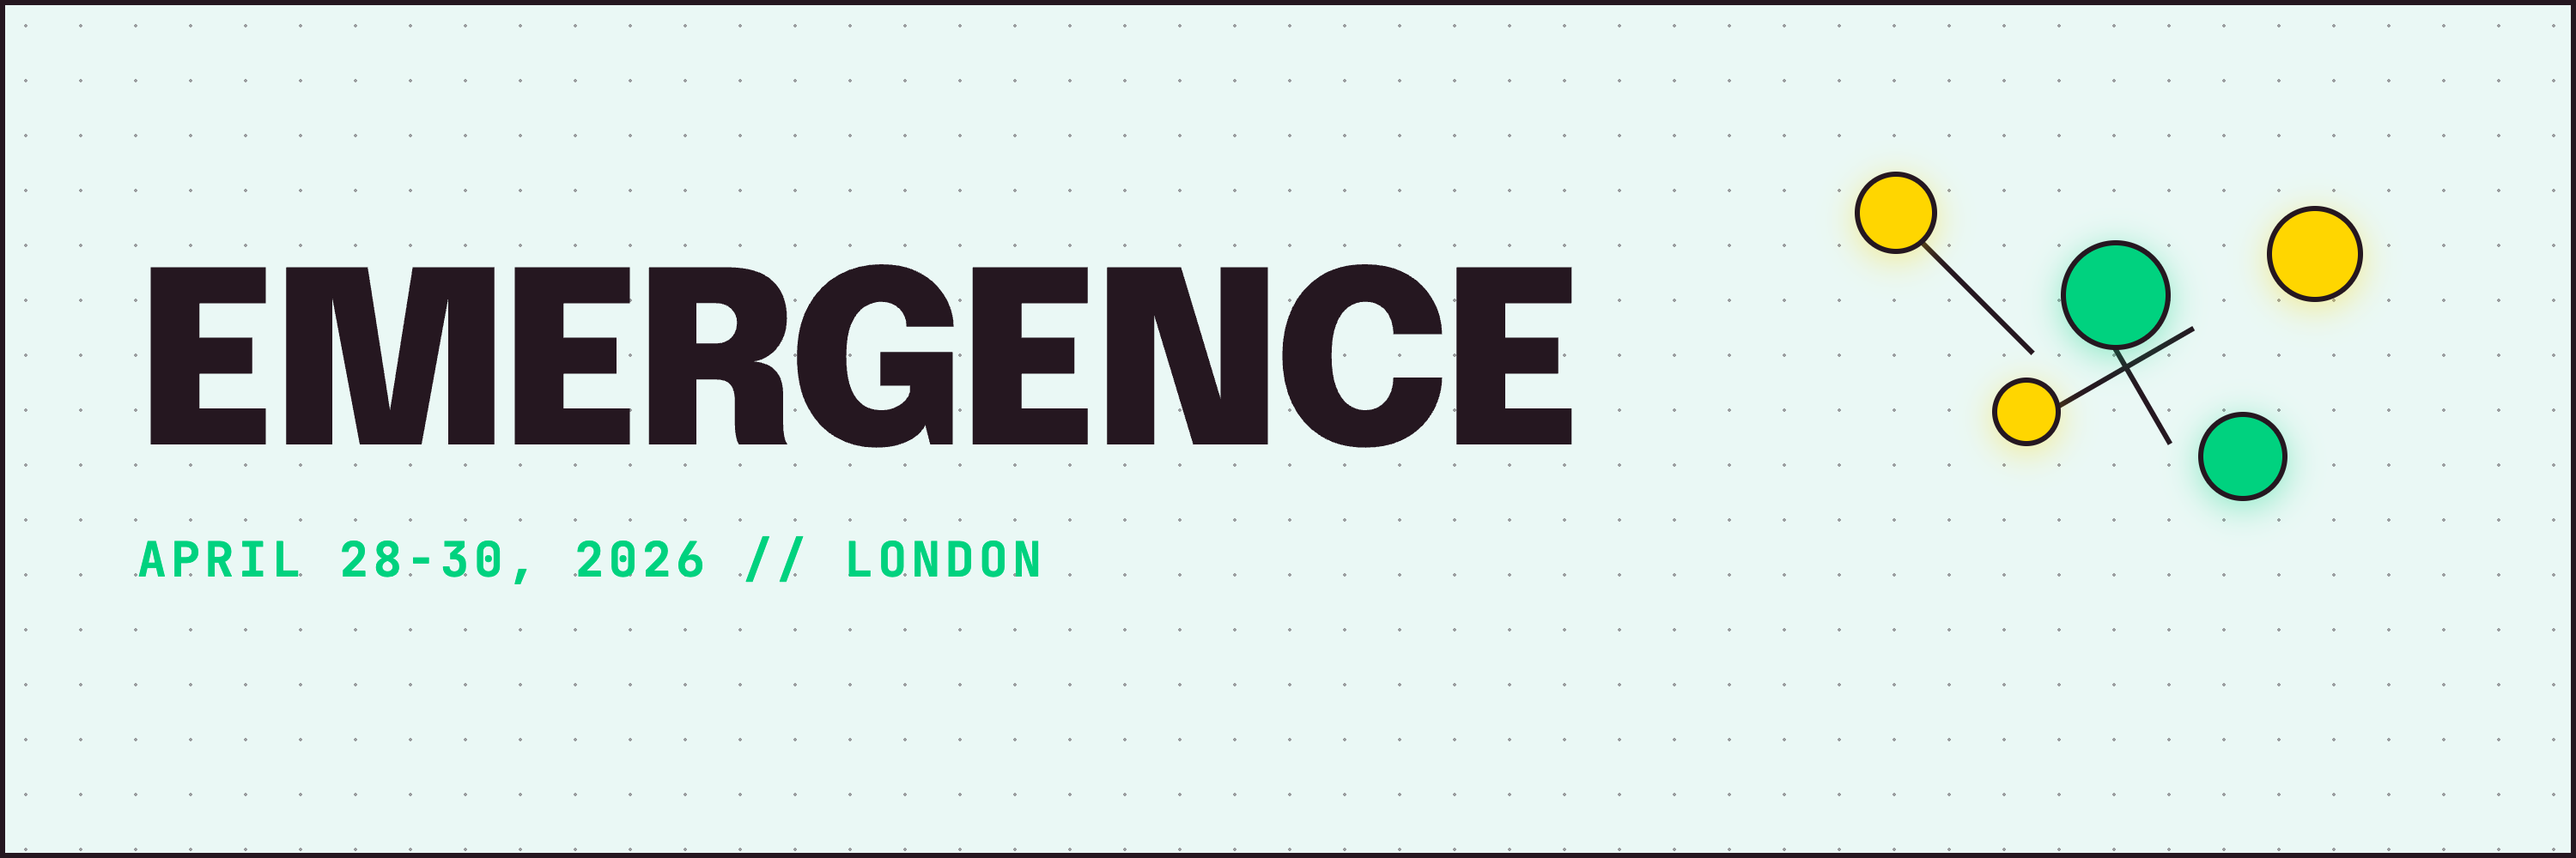
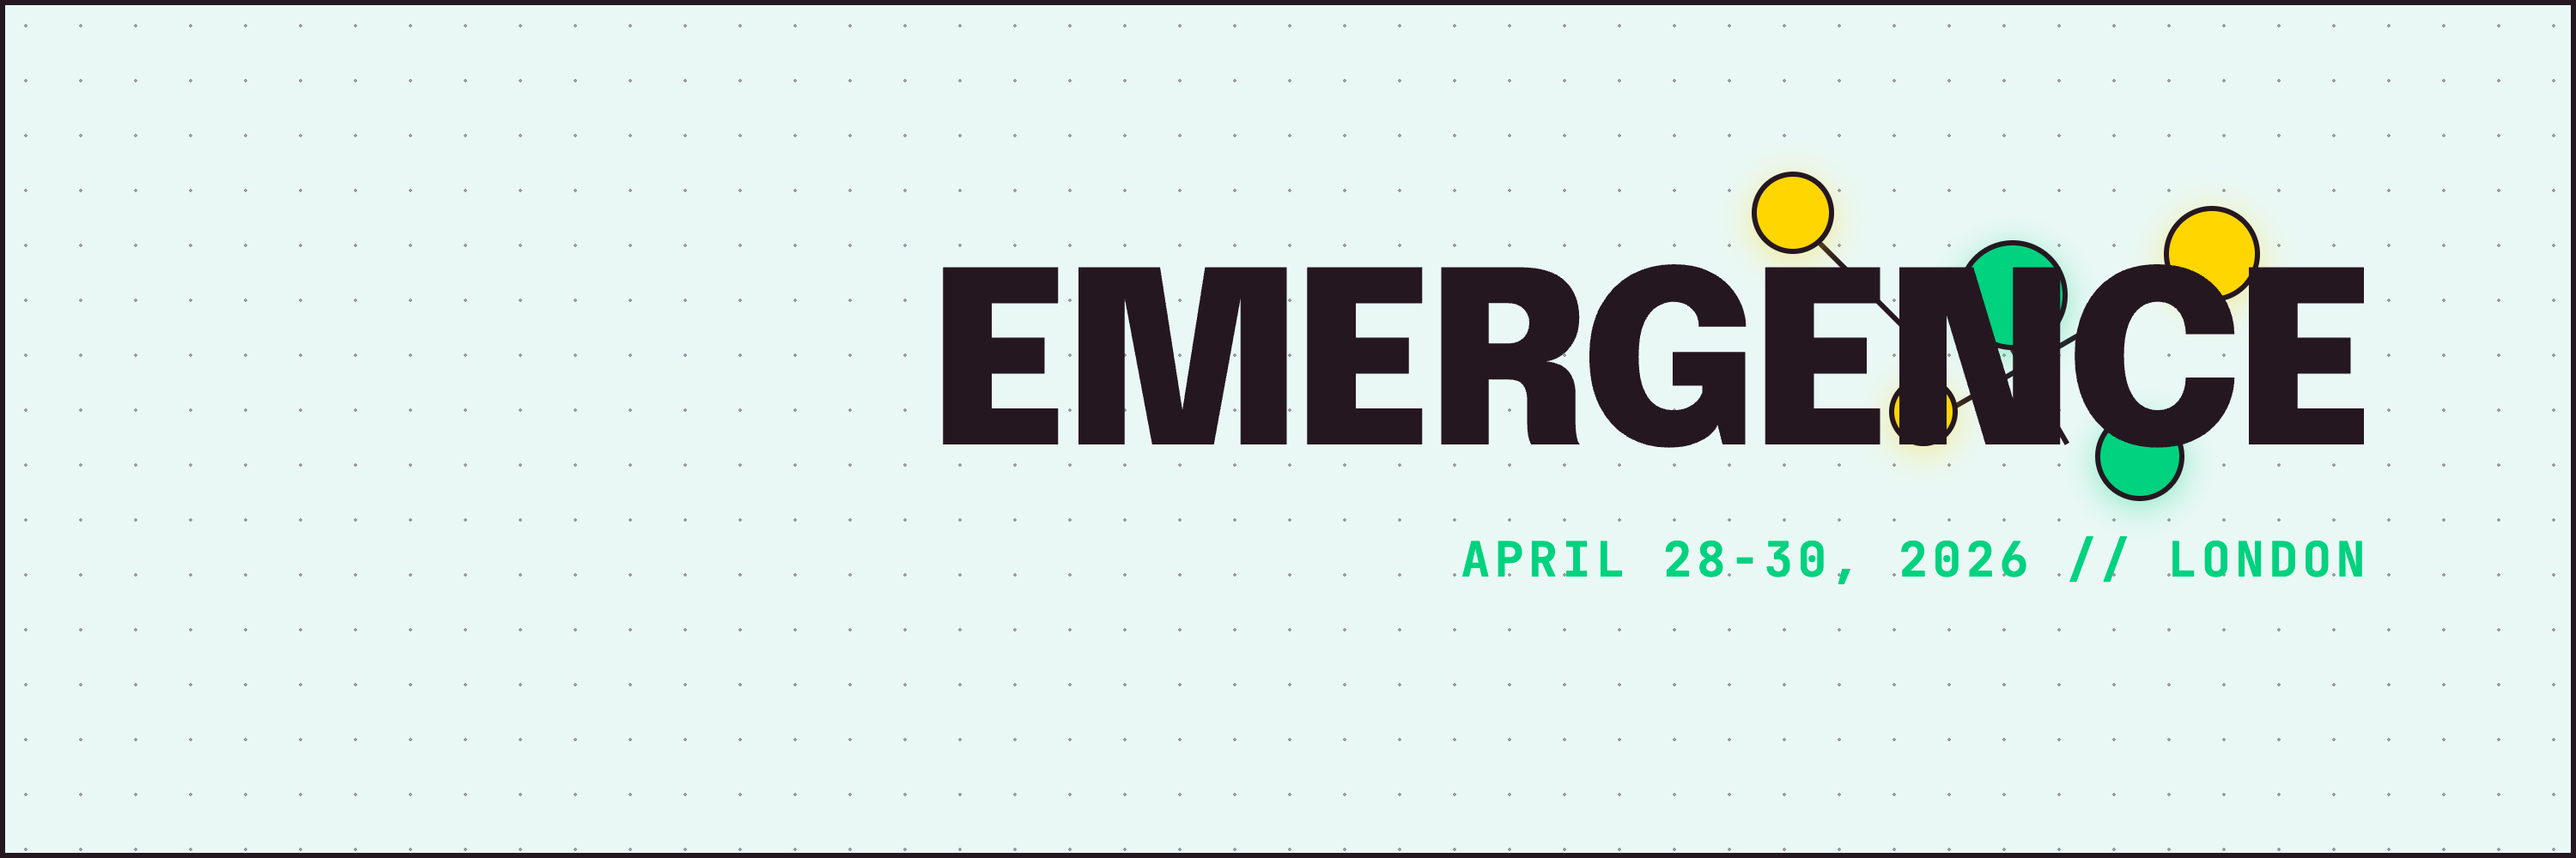
Reposition Twitter header layout for profile picture overlay
Shift all content to right 2/3rds of image to avoid profile picture
covering bottom-left corner. Clean safe zone maintained.

Changed region(s): [[0.031, 0.186, 0.93, 0.682], [0.031, 0.62, 0.403, 0.682]]

diff --git a/public/luma-assets/generate-twitter-header.html b/public/luma-assets/generate-twitter-header.html
@@ -40,7 +40,7 @@
     .network-nodes {
       position: absolute;
       top: 40px;
-      right: 60px;
+      right: 120px;
       width: 400px;
       height: 400px;
     }
@@ -73,8 +73,8 @@
       display: flex;
       flex-direction: column;
       justify-content: center;
-      align-items: flex-start;
-      padding: 80px;
+      align-items: flex-end;
+      padding: 80px 120px 80px 500px;
       z-index: 10;
     }
     h1 {
@@ -86,6 +86,7 @@
       text-transform: uppercase;
       line-height: 0.9;
       margin-bottom: 24px;
+      text-align: right;
     }
     .date {
       font-family: 'JetBrains Mono', monospace;
